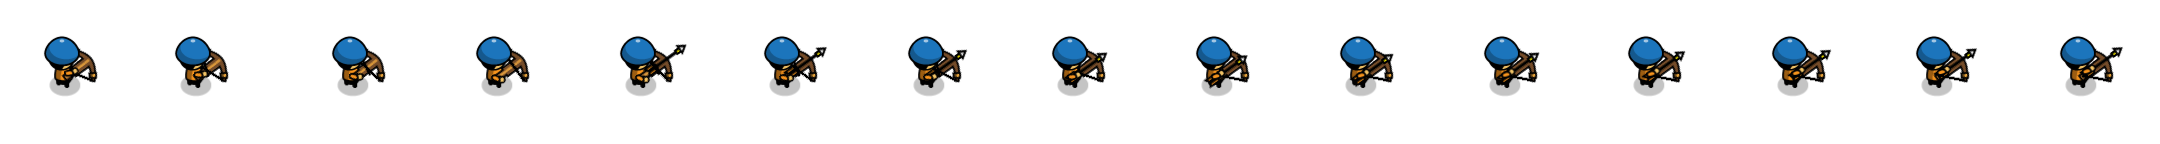
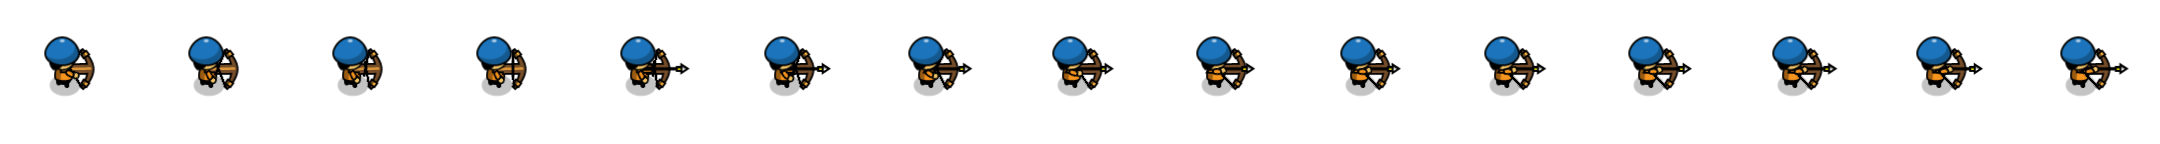
feat(sniperTower, archerTower): add new sprites

diff --git a/packages/client/src/assets/img/towers/sniperTower/sniper/index.ts b/packages/client/src/assets/img/towers/sniperTower/sniper/index.ts
@@ -1,12 +1,10 @@
-// import img0 from "./0.png";
-// import img45 from "./45.png";
-// import img90 from "./90.png";
-// import img135 from "./135.png";
+import img0 from "./0.png";
+import img45 from "./45.png";
+import img90 from "./90.png";
+import img135 from "./135.png";
 import img180 from "./180.png";
-// import img225 from "./225.png";
-// import img270 from "./270.png";
-// import img315 from "./315.png";
+import img225 from "./225.png";
+import img270 from "./270.png";
+import img315 from "./315.png";
 
-export default [img180];
-
-// export default [img0, img45, img90, img135, img180, img225, img270, img315];
+export default [img0, img45, img90, img135, img180, img225, img270, img315];

diff --git a/packages/client/src/assets/img/towers/archerTower/tower/index.ts b/packages/client/src/assets/img/towers/archerTower/tower/index.ts
@@ -1,4 +1,7 @@
 import img1 from "./1.png";
 import img2 from "./2.png";
+import img3 from "./3.png";
+import img4 from "./4.png";
+import img5 from "./5.png";
 
-export default [img1, img2];
+export default [img1, img2, img3, img4, img5];

diff --git a/packages/client/src/assets/img/towers/sniperTower/tower/index.ts b/packages/client/src/assets/img/towers/sniperTower/tower/index.ts
@@ -1,3 +1,7 @@
 import img1 from "./1.png";
+import img2 from "./2.png";
+import img3 from "./3.png";
+import img4 from "./4.png";
+import img5 from "./5.png";
 
-export default [img1];
+export default [img1, img2, img3, img4, img5];
